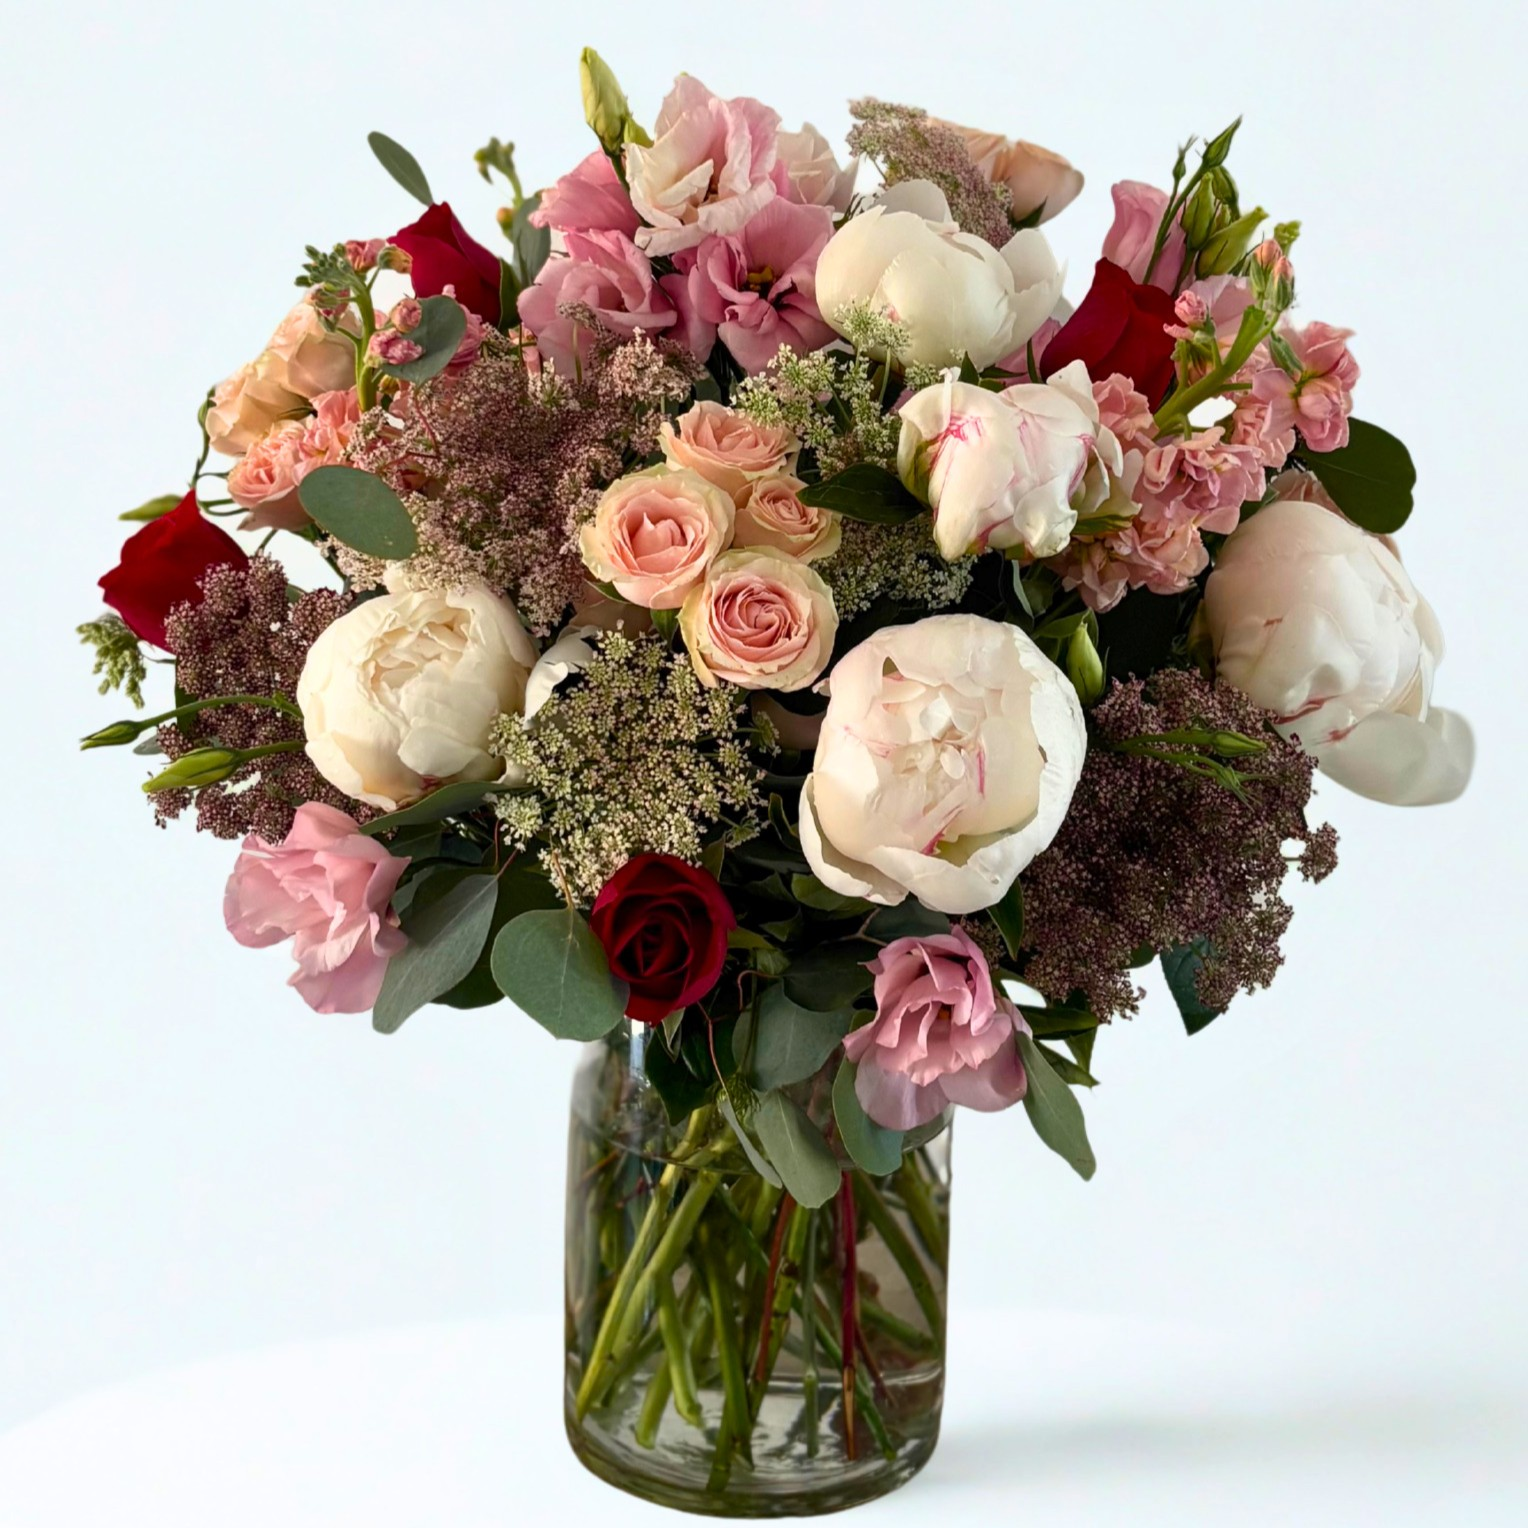
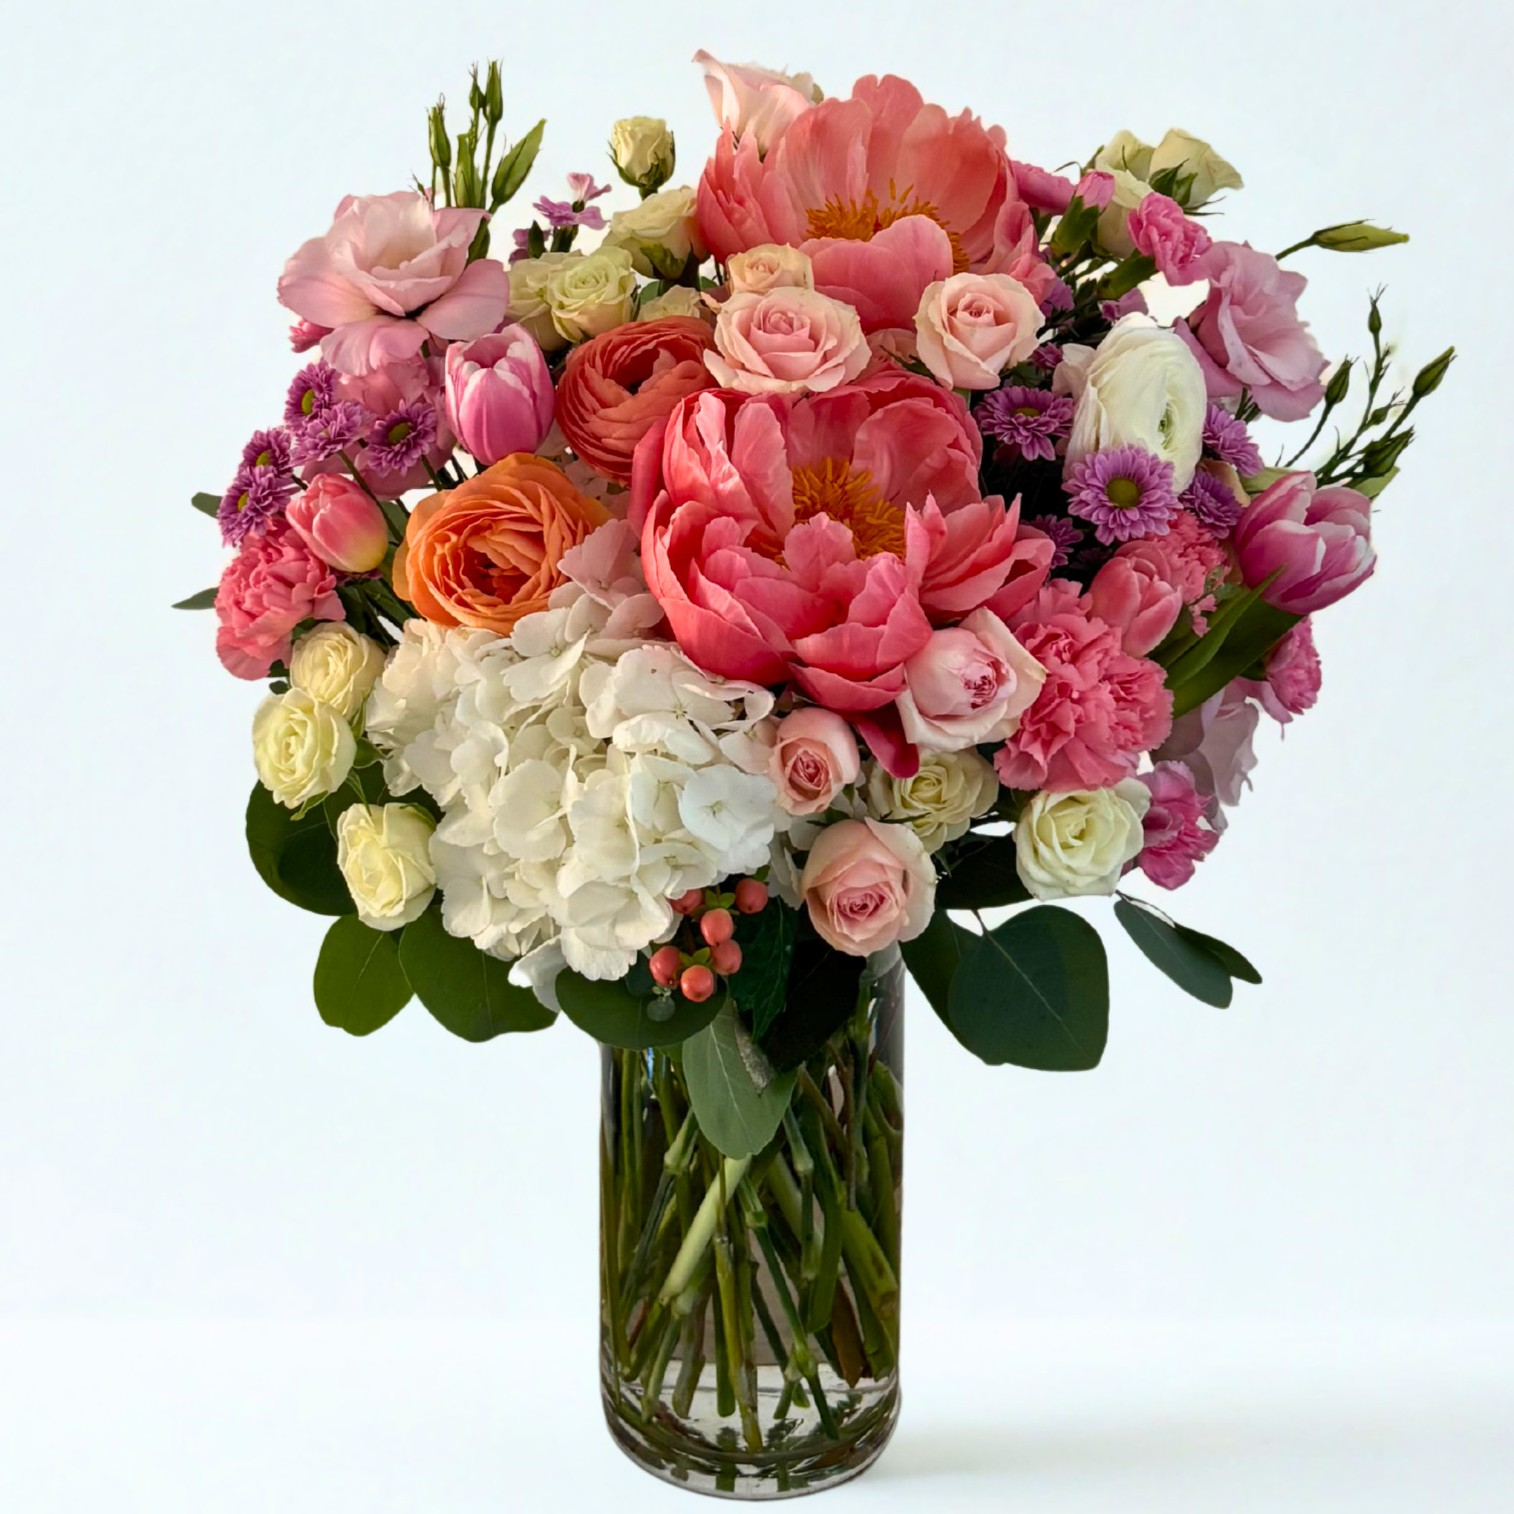
6/1/26 V1

diff --git a/shop.html b/shop.html
@@ -82,7 +82,20 @@
           </button>
         </article>
 
+        <article class="shop-card">
+  <img src="images/shop-C.jpg" alt="Peachy Spring bouquet design" />
 
+  <div class="shop-card-content">
+    <p class="shop-tag">Romance</p>
+    <h3>Tuscany Romance</h3>
+    <p>An arrangement that captures a romantic feel with its contrast of deep white tones & soft neutrals.</p>
+    <p class="shop-price">$149</p>
+  </div>
+
+  <button class="btn btn-primary add-to-cart-button" data-name="Tuscany Romance" data-price="$149"  data-image="images/shop-C.jpg">
+            Add to Cart
+          </button>
+        </article>
 
 
 
@@ -170,14 +183,14 @@
   <img src="images/gallery-2.jpg" alt="Peachy Spring bouquet design" />
 
   <div class="shop-card-content">
-    <p class="shop-tag">Romance</p>
-    <h3>Tuscany Romance</h3>
-    <p>An arrangement that captures a romantic feel with its contrast of deep white tones & soft eutrals.</p>
-    <p class="shop-price">$149</p>
+    <p class="shop-tag">Spring</p>
+    <h3>Peachy Spring</h3>
+    <p>A cheerful spring-inspired arrangement blending peach tones with soft seasonal blooms.</p>
+    <p class="shop-price">$72</p>
   </div>
 
   <button
-    class="btn btn-primary add-to-cart-button" data-name="Peachy Spring" data-price="$149"
+    class="btn btn-primary add-to-cart-button" data-name="Peachy Spring" data-price="$72"
     data-image="images/gallery-2.jpg"
   >
     Add to Cart